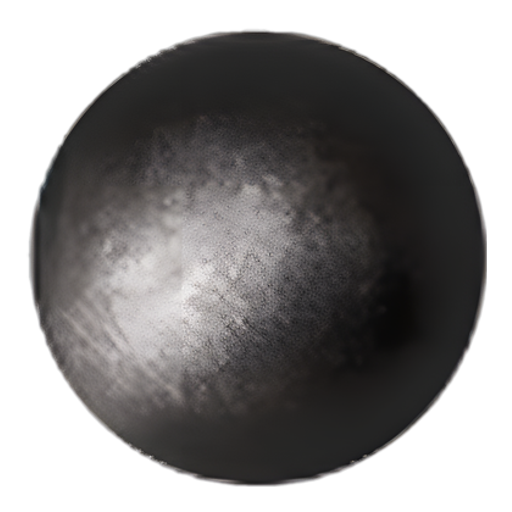
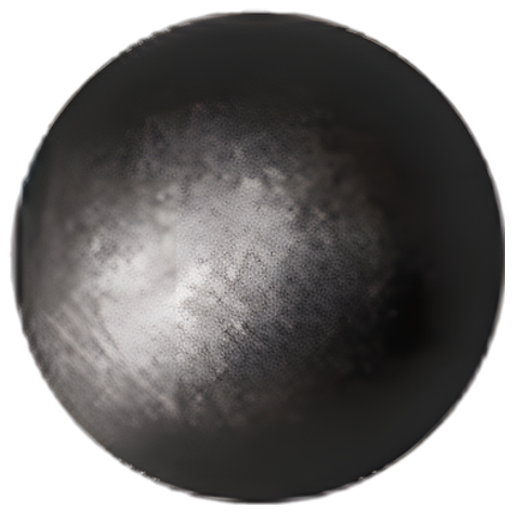
Fix shelf thumb scale for refreshed bead hero images.
Use a neutral circular backdrop with object-cover, re-normalize six beads to 97% fill, and trim the snowflake phantom halo so it matches other thumbs.

Changed region(s): [[0.0, 0.0, 1.0, 1.0], [0.7188, 0.5625, 0.75, 0.5938], [0.4688, 0.4375, 0.5, 0.4688]]

diff --git a/src/pages/diy/ui/shelf.js b/src/pages/diy/ui/shelf.js
@@ -67,10 +67,10 @@ export function initShelf() {
           return `
           <button type="button" data-id="${escapeAttr(p.id)}" class="relative flex aspect-square flex-col items-center rounded-xl bg-white px-2 pb-2 pt-2.5 text-center ring-1 ring-stone-200 transition active:scale-95">
             ${n ? `<span class="absolute right-1.5 top-1.5 rounded bg-stone-900/80 px-1.5 py-0.5 text-[0.65rem] leading-none text-white">x${n}</span>` : ''}
-            <span class="flex aspect-square w-[52%] shrink-0 items-center justify-center overflow-hidden rounded-full">
+            <span class="flex aspect-square w-[52%] shrink-0 items-center justify-center overflow-hidden rounded-full bg-stone-200">
               ${
                 p.image
-                  ? `<img src="${escapeAttr(p.image)}" alt="" class="h-full w-full object-contain" />`
+                  ? `<img src="${escapeAttr(p.image)}" alt="" class="h-full w-full object-cover" />`
                   : `<span class="block h-[70%] w-[70%] rounded-full shadow-inner ring-1 ring-black/10" style="background:${p.color || '#d6d3d1'}"></span>`
               }
             </span>
